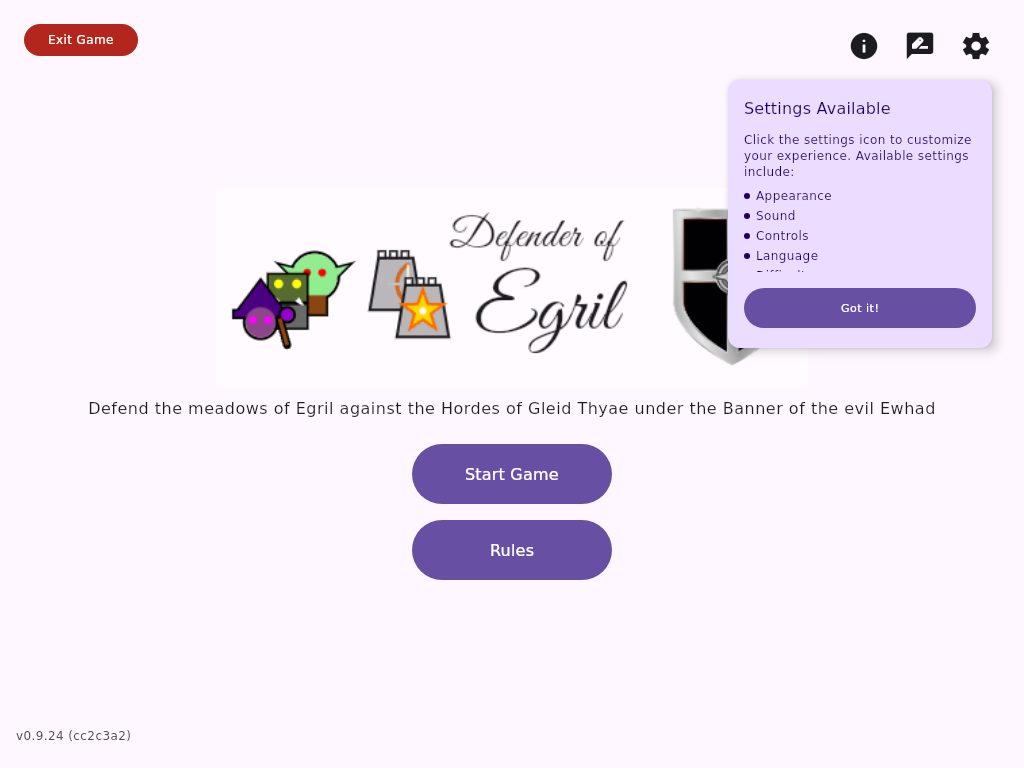
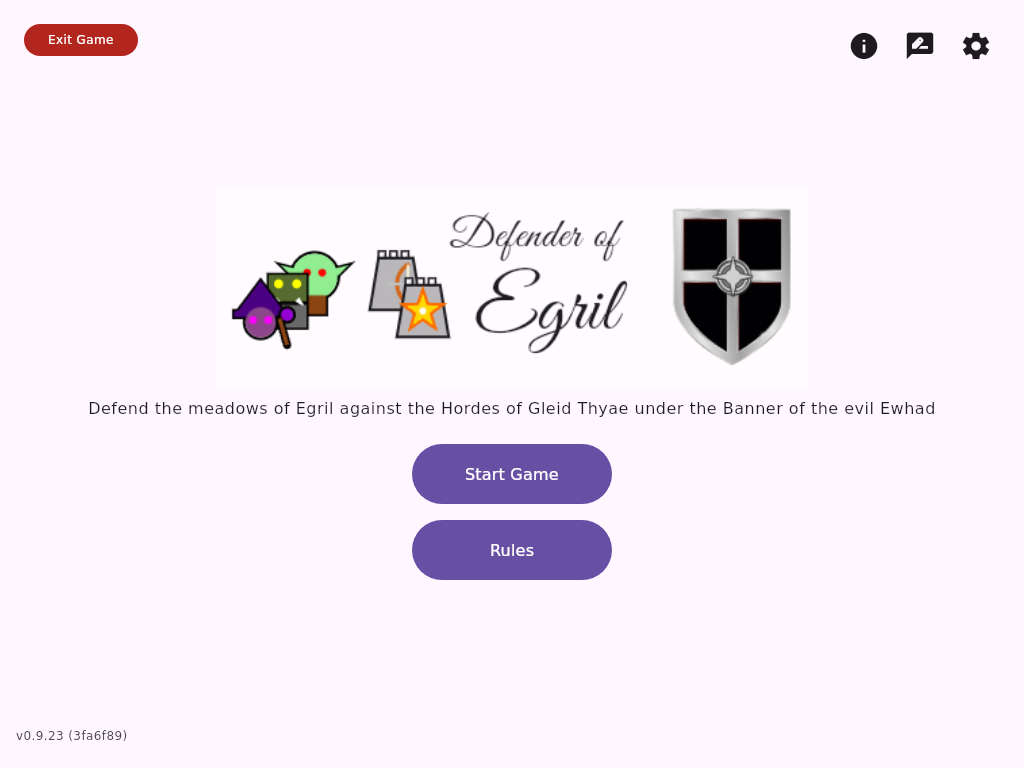
Restrict main menu exit button to desktop
Agent-Logs-Url: https://github.com/julianegner/defender-of-egril/sessions/a7521605-40e8-40d6-a5b9-5c360cfe7473

Changed region(s): [[0.6875, 0.0938, 1.0, 0.4688], [0.0625, 0.9375, 0.125, 0.9688]]

diff --git a/frontend/composeApp/src/commonMain/kotlin/de/egril/defender/ui/MenuScreens.kt b/frontend/composeApp/src/commonMain/kotlin/de/egril/defender/ui/MenuScreens.kt
@@ -38,7 +38,7 @@ import de.egril.defender.ui.settings.AppSettings
 import de.egril.defender.ui.settings.SettingsButton
 import de.egril.defender.ui.settings.SettingsHintBox
 import de.egril.defender.ui.feedback.FeedbackButton
-import de.egril.defender.utils.isPlatformAndroid
+import de.egril.defender.utils.isPlatformDesktop
 import de.egril.defender.utils.isPlatformMobile
 import de.egril.defender.utils.isPlatformWasm
 import de.egril.defender.ui.isMobileWebBrowser
@@ -65,10 +65,7 @@ internal fun shouldUseCompactMainMenuLayout(
     isMobileWeb: Boolean
 ): Boolean = isNativeMobile || isMobileWeb
 
-internal fun shouldShowExitGameButton(
-    isAndroid: Boolean,
-    isIos: Boolean
-): Boolean = !isAndroid && !isIos
+internal fun shouldShowExitGameButton(isDesktop: Boolean): Boolean = isDesktop
 
 /** Returns true when LevelComplete screen should use a compact, scrollable mobile layout. */
 internal fun shouldUseMobileLevelCompleteLayout(
@@ -183,10 +180,7 @@ fun MainMenuScreen(
                 isNativeMobile = isPlatformMobile,
                 isMobileWeb = isMobileWeb
             )
-            val showExitGameButton = shouldShowExitGameButton(
-                isAndroid = isPlatformAndroid,
-                isIos = isPlatformIos
-            )
+            val showExitGameButton = shouldShowExitGameButton(isDesktop = isPlatformDesktop)
             // Pre-compute at BoxWithConstraints scope where maxHeight/maxWidth are in scope
             val mobileLandscapeBannerHeight = (maxHeight * 0.40f).coerceAtLeast(72.dp).coerceAtMost(140.dp)
             // Desktop banner: height = available width / (aspect-ratio × 1.5) — 2/3 of the full-width size.

diff --git a/frontend/composeApp/src/desktopTest/kotlin/de/egril/defender/ui/MainMenuLayoutDecisionTest.kt b/frontend/composeApp/src/desktopTest/kotlin/de/egril/defender/ui/MainMenuLayoutDecisionTest.kt
@@ -62,20 +62,21 @@ class MainMenuLayoutDecisionTest {
     @Test
     fun androidDoesNotShowExitGameButton() {
         assertFalse(
-            shouldShowExitGameButton(
-                isAndroid = true,
-                isIos = false
-            )
+            shouldShowExitGameButton(isDesktop = false)
+        )
+    }
+
+    @Test
+    fun mobileWebDoesNotShowExitGameButton() {
+        assertFalse(
+            shouldShowExitGameButton(isDesktop = false)
         )
     }
 
     @Test
     fun desktopStillShowsExitGameButton() {
         assertTrue(
-            shouldShowExitGameButton(
-                isAndroid = false,
-                isIos = false
-            )
+            shouldShowExitGameButton(isDesktop = true)
         )
     }
 }
